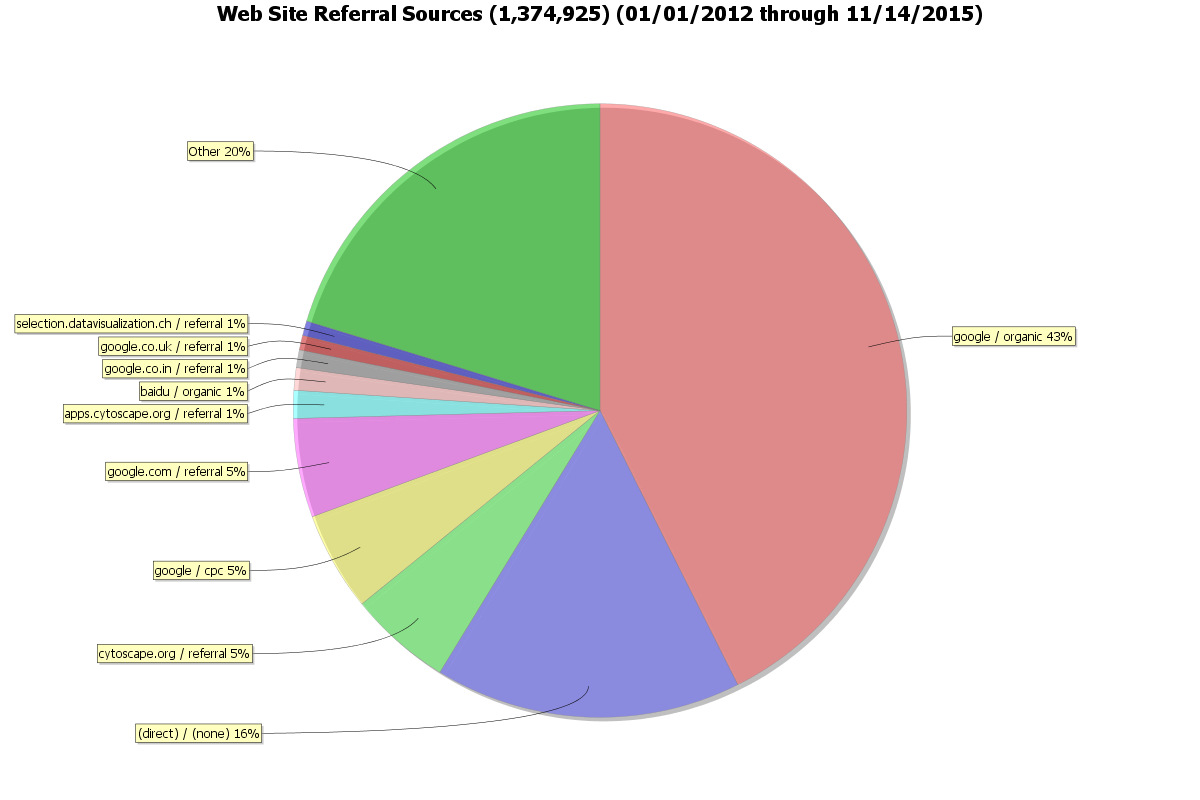
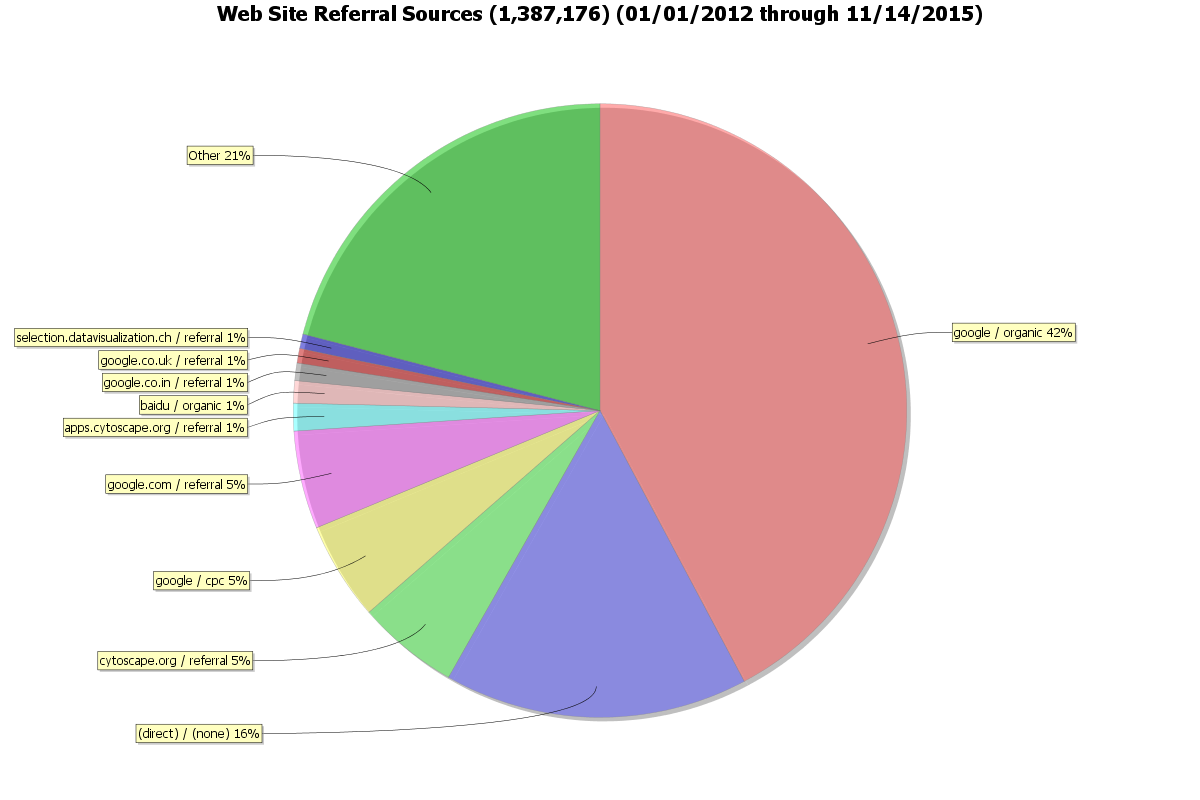
Merge origin/master
Conflicts:
	GAVisualizer/src/gavisualizer/GAVisualizer.java
	GAVisualizer/src/gavisualizer/GoogleApiManager.java

diff --git a/GAVisualizer/src/gavisualizer/GoogleApiManager.java b/GAVisualizer/src/gavisualizer/GoogleApiManager.java
@@ -32,6 +32,7 @@ public class GoogleApiManager {
     private static final JsonFactory JSON_FACTORY = GsonFactory.getDefaultInstance();
     private static final String START_DATE_WEBSITE = "2012-01-01";
     private static final String START_DATE_APPSTORE = "2012-06-01";
+    private static final int MAX_RESULTS = 100000;
     private String _END_DATE;
     private Analytics _analytics;
     private String _CytoscapeProfile;
@@ -58,6 +59,7 @@ public class GoogleApiManager {
                 .get("ga:" + _CytoscapeProfile, START_DATE_WEBSITE, _END_DATE, "ga:sessions")
                 .setDimensions("ga:country")
                 .setSort("-ga:sessions")
+                .setMaxResults(MAX_RESULTS)
                 .execute();
     }
     
@@ -66,6 +68,7 @@ public class GoogleApiManager {
                 .get("ga:" + _CytoscapeProfile, START_DATE_WEBSITE, _END_DATE, "ga:sessions")
                 .setDimensions("ga:sourceMedium")
                 .setSort("-ga:sessions")
+                .setMaxResults(MAX_RESULTS)
                 .execute();
     }
     
@@ -73,6 +76,7 @@ public class GoogleApiManager {
         return _analytics.data().ga()
                 .get("ga:" + _CytoscapeProfile, START_DATE_WEBSITE, _END_DATE, "ga:sessions")
                 .setDimensions("ga:nthWeek")
+                .setMaxResults(MAX_RESULTS)
                 .execute();
     }     
     
@@ -82,6 +86,7 @@ public class GoogleApiManager {
                 .setFilters("ga:pagePath==/download.php")
                 .setDimensions("ga:pagePath,ga:nthWeek")
                 .setSort("ga:nthWeek")
+                .setMaxResults(MAX_RESULTS)
                 .execute();
     }
       
@@ -91,6 +96,7 @@ public class GoogleApiManager {
                 .get("ga:" + _AppstoreProfile, START_DATE_APPSTORE, _END_DATE, "ga:sessions")
                 .setDimensions("ga:country")
                 .setSort("-ga:sessions")
+                .setMaxResults(MAX_RESULTS)
                 .execute();
     }
     
@@ -100,6 +106,7 @@ public class GoogleApiManager {
                 .get("ga:" + _AppstoreProfile, START_DATE_APPSTORE, _END_DATE, "ga:sessions")
                 .setDimensions("ga:sourceMedium")
                 .setSort("-ga:sessions")
+                .setMaxResults(MAX_RESULTS)
                 .execute();
     }
     
@@ -108,6 +115,7 @@ public class GoogleApiManager {
         return _analytics.data().ga()
                 .get("ga:" + _AppstoreProfile, START_DATE_APPSTORE, _END_DATE, "ga:sessions")
                 .setDimensions("ga:nthWeek")
+                .setMaxResults(MAX_RESULTS)
                 .execute();
     }
     
@@ -118,6 +126,7 @@ public class GoogleApiManager {
                 .setDimensions("ga:pageTitle")
                 .setSort("-ga:pageviews")
                 .setFilters("ga:pageTitle=~category")
+                .setMaxResults(MAX_RESULTS)
                 .execute();
     }
 
@@ -221,8 +230,8 @@ public class GoogleApiManager {
         DateFormat write = new SimpleDateFormat("yyyy-MM-dd");
         
         //return the date with the expected output format
-        return write.format(d);
+        //return write.format(d);
         //return "2015-02-22"; // customer example
-        //return "2015-11-14";
+        return "2015-11-14";
     }
 }

diff --git a/GAVisualizer/src/gavisualizer/PieChart.java b/GAVisualizer/src/gavisualizer/PieChart.java
@@ -8,6 +8,8 @@ package gavisualizer;
 import java.awt.Color;
 import java.io.File;
 import java.io.IOException;
+import java.math.RoundingMode;
+import java.text.NumberFormat;
 import org.jfree.chart.ChartFactory;
 import org.jfree.chart.ChartUtilities;
 import org.jfree.chart.JFreeChart;
@@ -43,7 +45,9 @@ public class PieChart implements IChart {
         plot.setDirection(Rotation.CLOCKWISE);
         plot.setForegroundAlpha(0.5f);
         plot.setBackgroundPaint(Color.WHITE);
-        plot.setLabelGenerator(new StandardPieSectionLabelGenerator("{0} {2}"));
+        //NumberFormat nf = NumberFormat.getPercentInstance();
+        //nf.setRoundingMode(RoundingMode.UP);
+        plot.setLabelGenerator(new StandardPieSectionLabelGenerator("{0} {2}")); //NumberFormat.getNumberInstance(), nf));
         plot.setOutlinePaint(Color.white);
         
         _chart = chart;
